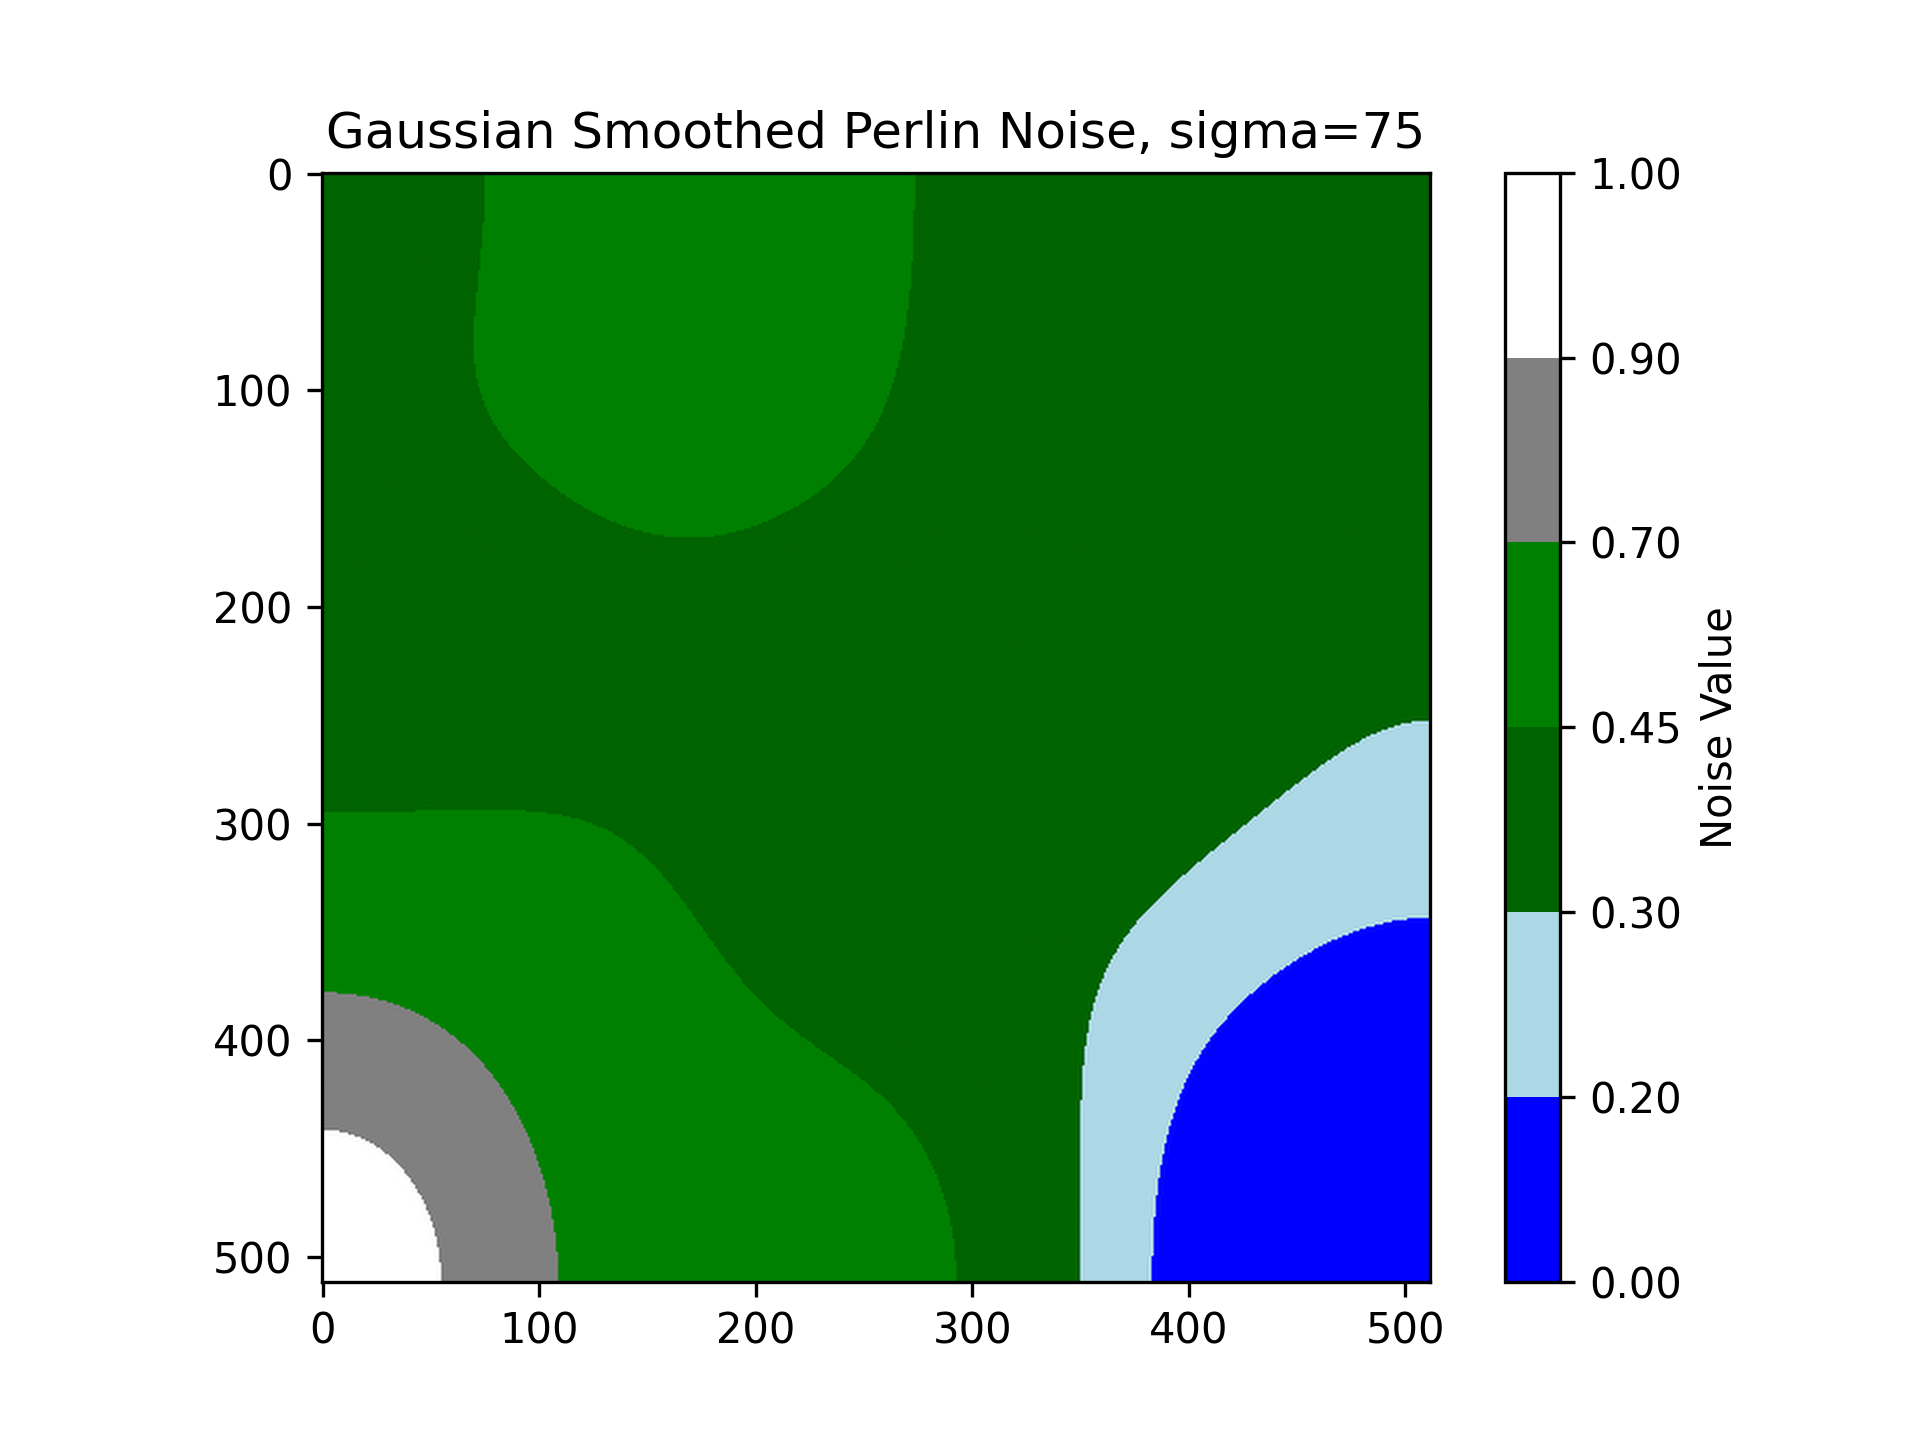
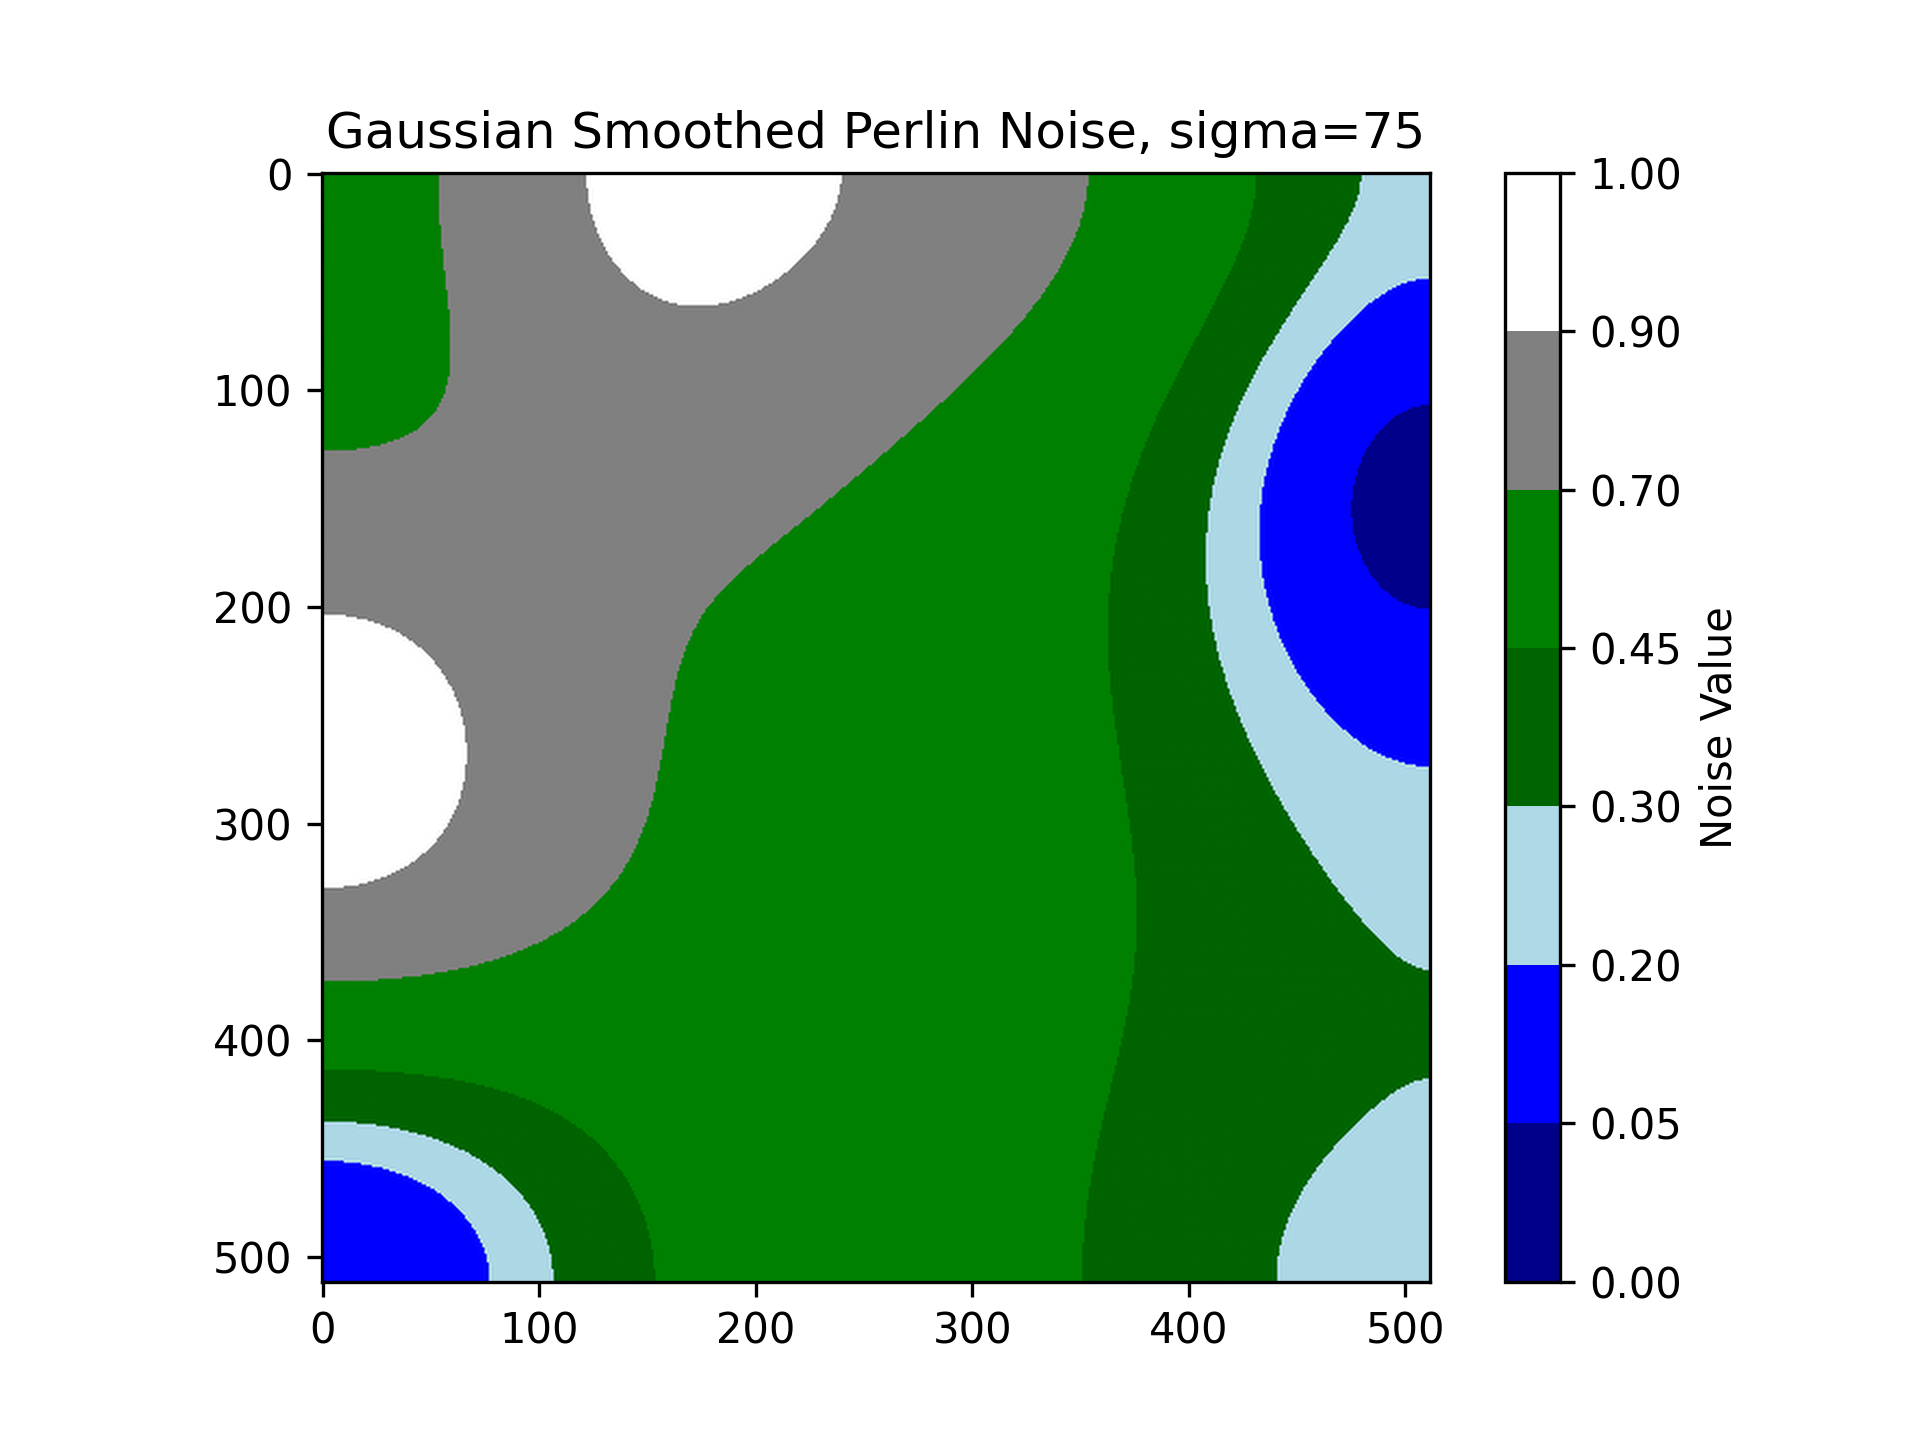
Finished gaussian smoothing perlin noise

diff --git a/perlin_noise.py b/perlin_noise.py
@@ -531,46 +531,47 @@ if __name__ == "__main__":
     land_type_colors = [        'darkblue', "blue", "lightblue", 'darkgreen', 'green','grey', 'white']  # Colors for different land types 
 
 
-    # run_perlin_noise( size = grid_size, \
-    #                 show_plots=False)  # Run the Perlin noise generation and plotting
+    run_perlin_noise( size = grid_size, \
+                    show_plots=False)  # Run the Perlin noise generation and plotting
 
-    # run_perlin_noise_gaussian( size=grid_size, \
-    #                         sigmas=[0, 0.5, 1, 5, 10, 25, 50, 75, 100], \
-    #                         colors=land_type_colors, \
-    #                         bounds=land_type_boundaries, \
-    #                         show_plots=False)  # Run the Gaussian-smoothed Perlin noise generation and plotting
+    params = [0, 0.5, 1, 5, 10, 25, 50, 75, 100]
+    run_perlin_noise_gaussian( size=grid_size, \
+                            sigmas=params, \
+                            colors=land_type_colors, \
+                            bounds=land_type_boundaries, \
+                            show_plots=False)  # Run the Gaussian-smoothed Perlin noise generation and plotting
     
 
     # Run fractal Perlin noise with various combinations of parameters
-    octave_values = [1, 3, 5, 7]
-    persistence_values = [0.5, 1.0, 1.5]
-    amplitude_values = [0.25, 0.5, 0.75, 1.0]
-    scale_values = [100, 200, 400, 500]
-    lacunarity_values = [0.5, 1.0]
-    params = len(octave_values) * len(persistence_values) * len(amplitude_values) * len(scale_values) * len(lacunarity_values)
-    current_iteration = 0
-    for scale in scale_values:
-        for persistence in persistence_values:
-            for amplitude in amplitude_values:
-                for octaves in octave_values:
-                    for lacunarity in lacunarity_values:
-                        current_iteration += 1
-                        print(f"Iteration {current_iteration} of {params} - Progress: {(current_iteration / params) * 100:.2f}% complete")
-                        print(f"Running fractal Perlin noise with octaves={octaves}, persistence={persistence}, amplitude={amplitude}, scale={scale}, lacunarity={lacunarity}")
-                        run_perlin_noise_fractal(
-                            size=grid_size,
-                            octaves=octaves,
-                            persistence=persistence,
-                            amplitude=amplitude,
-                            scale=scale,
-                            lacunarity=lacunarity,
-                            colors=land_type_colors,
-                            bounds=land_type_boundaries,
-                            show_plots=False,
-                            offset_x=random.random() * 100,
-                            offset_y=random.random() * 100,
-                            iterNum=current_iteration
-                        )
+    # octave_values = [1, 3, 5, 7]
+    # persistence_values = [0.5, 1.0, 1.5]
+    # amplitude_values = [0.25, 0.5, 0.75, 1.0]
+    # scale_values = [100, 200, 400, 500]
+    # lacunarity_values = [0.5, 1.0]
+    # params = len(octave_values) * len(persistence_values) * len(amplitude_values) * len(scale_values) * len(lacunarity_values)
+    # current_iteration = 0
+    # for scale in scale_values:
+    #     for persistence in persistence_values:
+    #         for amplitude in amplitude_values:
+    #             for octaves in octave_values:
+    #                 for lacunarity in lacunarity_values:
+    #                     current_iteration += 1
+    #                     print(f"Iteration {current_iteration} of {params} - Progress: {(current_iteration / params) * 100:.2f}% complete")
+    #                     print(f"Running fractal Perlin noise with octaves={octaves}, persistence={persistence}, amplitude={amplitude}, scale={scale}, lacunarity={lacunarity}")
+    #                     run_perlin_noise_fractal(
+    #                         size=grid_size,
+    #                         octaves=octaves,
+    #                         persistence=persistence,
+    #                         amplitude=amplitude,
+    #                         scale=scale,
+    #                         lacunarity=lacunarity,
+    #                         colors=land_type_colors,
+    #                         bounds=land_type_boundaries,
+    #                         show_plots=False,
+    #                         offset_x=random.random() * 100,
+    #                         offset_y=random.random() * 100,
+    #                         iterNum=current_iteration
+    #                     )
 
     # params = [
     #     #octaves, persistence, amplitude, lacunarity, scale
